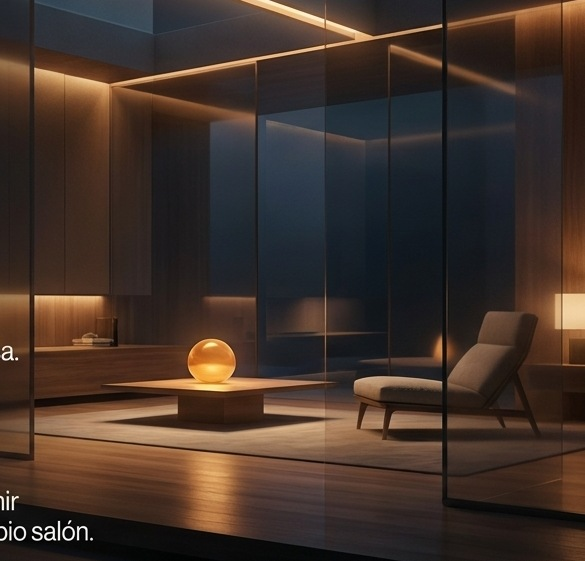
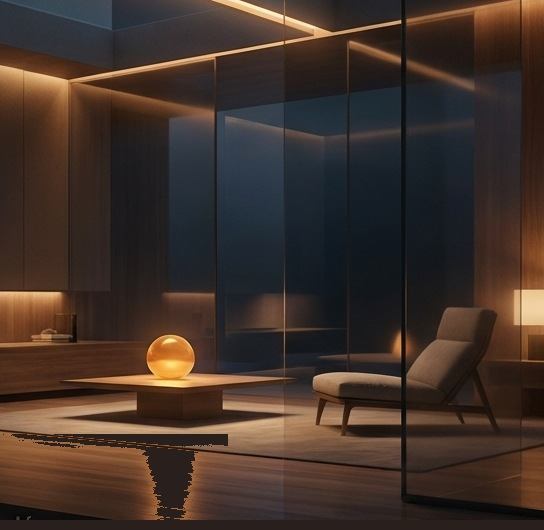
Más lectura en Hablar con Will. El punto blanco del original, fuera.

diff --git a/src/index.css b/src/index.css
@@ -129,11 +129,11 @@
 .will-veil-chat {
   background: linear-gradient(
     90deg,
-    rgba(7, 8, 10, 0.84) 0%,
-    rgba(7, 8, 10, 0.7) 20%,
-    rgba(7, 8, 10, 0.38) 36%,
-    rgba(7, 8, 10, 0.1) 50%,
-    rgba(7, 8, 10, 0) 62%,
+    rgba(7, 8, 10, 0.92) 0%,
+    rgba(7, 8, 10, 0.82) 18%,
+    rgba(7, 8, 10, 0.5) 34%,
+    rgba(7, 8, 10, 0.16) 48%,
+    rgba(7, 8, 10, 0) 60%,
     rgba(7, 8, 10, 0) 100%
   );
 }
@@ -151,10 +151,10 @@
   .will-veil-chat {
     background: linear-gradient(
       180deg,
-      rgba(7, 8, 10, 0.72) 0%,
-      rgba(7, 8, 10, 0.42) 38%,
-      rgba(7, 8, 10, 0.18) 62%,
-      rgba(7, 8, 10, 0.55) 100%
+      rgba(7, 8, 10, 0.88) 0%,
+      rgba(7, 8, 10, 0.62) 32%,
+      rgba(7, 8, 10, 0.28) 58%,
+      rgba(7, 8, 10, 0.7) 100%
     );
   }
   .will-veil-topics,
@@ -188,17 +188,28 @@
 
 /* Texto de la app: marfil cálido. Se lee sobre la foto sin deslumbrar. */
 .will-copy {
-  color: #f4e6c8;
+  color: #f7edd6;
   text-shadow:
-    0 1px 1px rgba(0, 0, 0, 0.98),
-    0 2px 14px rgba(0, 0, 0, 0.82),
-    0 0 22px rgba(0, 0, 0, 0.5);
+    0 1px 1px rgba(0, 0, 0, 1),
+    0 2px 8px rgba(0, 0, 0, 0.95),
+    0 4px 22px rgba(0, 0, 0, 0.75);
 }
 .will-copy-muted {
-  color: #e4d4b4;
+  color: #efe0c4;
   text-shadow:
-    0 1px 2px rgba(0, 0, 0, 0.95),
-    0 2px 12px rgba(0, 0, 0, 0.7);
+    0 1px 2px rgba(0, 0, 0, 1),
+    0 2px 14px rgba(0, 0, 0, 0.8);
+}
+
+/* Plano de lectura: la información de Will manda sobre el fondo. */
+.will-read {
+  background: linear-gradient(
+    90deg,
+    rgba(7, 8, 10, 0.45) 0%,
+    rgba(7, 8, 10, 0.22) 72%,
+    rgba(7, 8, 10, 0) 100%
+  );
+  padding: 0.35rem 1rem 0.75rem 0;
 }
 
 /* Marcas extraídas del documento */

diff --git a/src/components/WillChat.tsx b/src/components/WillChat.tsx
@@ -238,7 +238,7 @@ export const WillChat: React.FC<WillChatProps> = ({
         {isEntrance && (
           <div className="max-w-6xl mx-auto w-full px-5 sm:px-8 lg:px-12 py-5 lg:py-8">
             <div className="grid lg:grid-cols-12 gap-8 items-start">
-              <div className="lg:col-span-5 space-y-6">
+              <div className="lg:col-span-5 space-y-6 will-read">
                 <div className="space-y-4 max-w-xl">
                   {welcomeParagraphs.map((para, i) => (
                     <p

diff --git a/src/components/visual/SpaceShell.tsx b/src/components/visual/SpaceShell.tsx
@@ -12,8 +12,8 @@ const SCENE: Record<
   }
 > = {
   chat: {
-    photo: '/visual-system/space-page09.jpg?v=txt1',
-    photoMobile: '/visual-system/space-page09-mobile.jpg?v=txt1',
+    photo: '/visual-system/space-page09.jpg?v=txt2',
+    photoMobile: '/visual-system/space-page09-mobile.jpg?v=txt2',
     position: '70% 58%',
     marks: [],
   },
